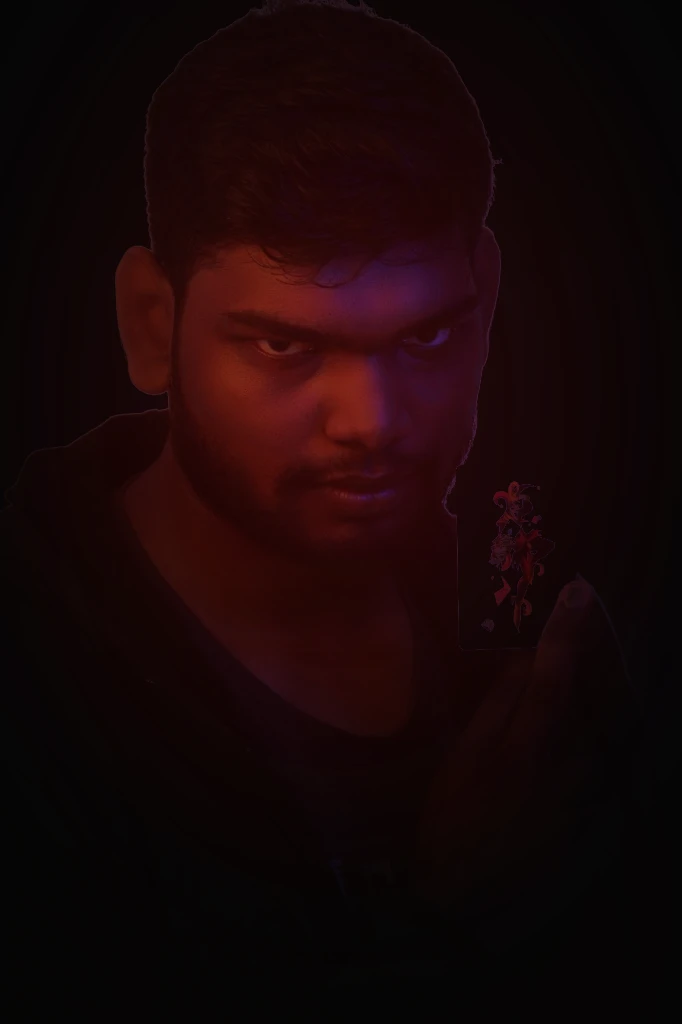
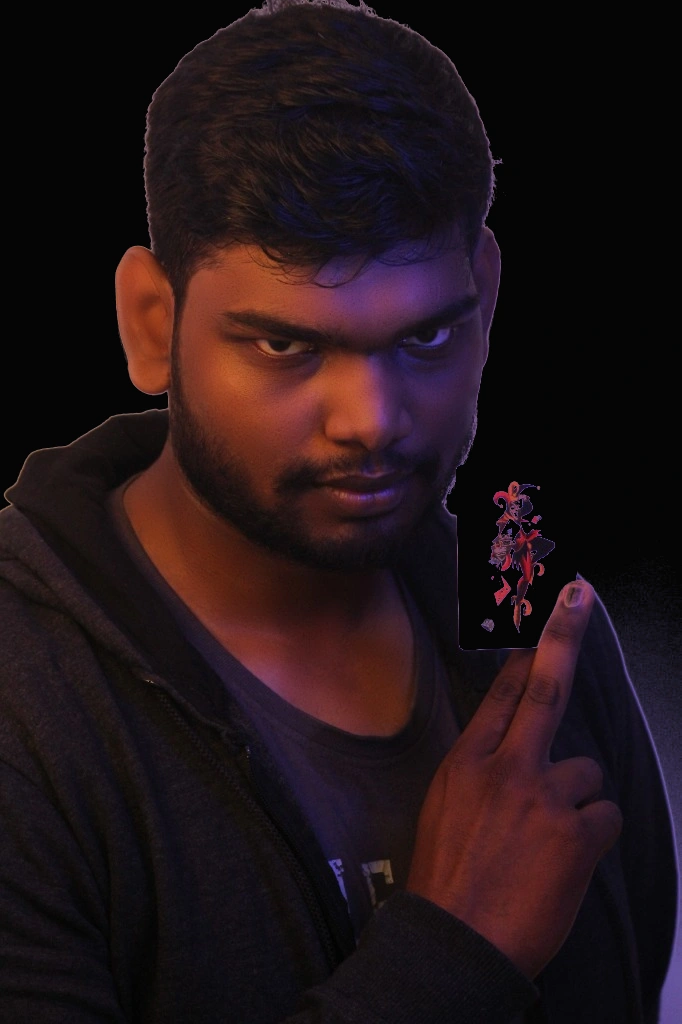
Remove CRAFT section and render authentic original photos with pure black background

diff --git a/src/components/SravanVisuals.jsx b/src/components/SravanVisuals.jsx
@@ -1,13 +1,13 @@
 import React from 'react';
 
-// Import real edited photographs of Mentalist Sravan
+// Import real original photographs with black background
 import sravanCardImg from '../assets/sravan_photos/sravan_card.webp';
 import sravanSuitImg from '../assets/sravan_photos/sravan_suit.webp';
 import sravanCubeImg from '../assets/sravan_photos/sravan_cube.webp';
 import sravanChessImg from '../assets/sravan_photos/sravan_chess.webp';
 import sravanHoodieImg from '../assets/sravan_photos/sravan_hoodie.webp';
 
-// Export paths for easy direct usage
+// Export raw photo assets for direct use
 export const photoAssets = {
   card: sravanCardImg,
   suit: sravanSuitImg,
@@ -16,32 +16,28 @@ export const photoAssets = {
   hoodie: sravanHoodieImg
 };
 
-// Hero Portrait: Mentalist Sravan holding Joker card with intense mysterious gaze
+// Hero Portrait: Mentalist Sravan holding Joker card (Original Photo, Black Background)
 export const HeroPortraitVisual = ({ className = "" }) => (
   <div className={`relative w-full h-full overflow-hidden bg-[#050505] flex items-center justify-center ${className}`}>
-    {/* Real Photograph with Dark Cinematic Treatment */}
     <img
       src={sravanCardImg}
       alt="Mentalist Sravan with Playing Card"
-      className="w-full h-full object-cover object-top opacity-85 filter contrast-125 brightness-90 saturate-[0.9] transition-transform duration-1000 scale-105 hover:scale-100"
+      className="w-full h-full object-cover object-top transition-transform duration-1000 scale-105 hover:scale-100"
     />
-    
-    {/* Dark Gradient Vignettes & Crimson Aura */}
-    <div className="absolute inset-0 bg-gradient-to-t from-[#050505] via-[#050505]/40 to-[#050505]/70 pointer-events-none" />
+    <div className="absolute inset-0 bg-gradient-to-t from-[#050505] via-[#050505]/30 to-[#050505]/60 pointer-events-none" />
     <div className="absolute inset-0 bg-gradient-to-r from-[#050505] via-transparent to-[#050505] pointer-events-none opacity-80" />
-    <div className="absolute top-1/3 left-1/2 -translate-x-1/2 w-96 h-96 bg-[#8E1018] opacity-20 blur-[130px] rounded-full pointer-events-none" />
   </div>
 );
 
 // Artist Portrait: Sravan in Black Suit (Page 02 & 12)
 export const ArtistPortraitVisual = ({ className = "" }) => (
-  <div className={`relative w-full h-full overflow-hidden bg-[#0a0a0a] ${className}`}>
+  <div className={`relative w-full h-full overflow-hidden bg-[#050505] ${className}`}>
     <img
       src={sravanSuitImg}
       alt="Mentalist Sravan Black Suit Portrait"
-      className="w-full h-full object-cover object-top opacity-90 filter contrast-125 brightness-95"
+      className="w-full h-full object-cover object-top"
     />
-    <div className="absolute inset-0 bg-gradient-to-t from-[#050505] via-transparent to-transparent opacity-90 pointer-events-none" />
+    <div className="absolute inset-0 bg-gradient-to-t from-[#050505] via-transparent to-transparent opacity-80 pointer-events-none" />
     <div className="absolute bottom-6 left-6 text-xs text-[#B8B0A5] tracking-widest uppercase font-cinzel opacity-80 z-10">
       FIG 01 / THE ARTIST
     </div>
@@ -54,22 +50,21 @@ export const PhilosophyCloseUpVisual = ({ className = "" }) => (
     <img
       src={sravanChessImg}
       alt="Mentalist Sravan holding Chess King"
-      className="w-full h-full object-cover opacity-80 filter contrast-130 brightness-90"
+      className="w-full h-full object-cover"
     />
-    <div className="absolute inset-0 bg-gradient-to-t from-[#050505] via-[#050505]/50 to-[#050505] pointer-events-none" />
-    <div className="absolute inset-0 bg-radial-vignette pointer-events-none" />
+    <div className="absolute inset-0 bg-gradient-to-t from-[#050505] via-[#050505]/40 to-[#050505] pointer-events-none" />
   </div>
 );
 
 // Mirage Project Visual: Sravan with Rubik's Cube (Page 04 & 05)
 export const MirageVisual = ({ className = "" }) => (
-  <div className={`relative w-full h-80 md:h-96 bg-[#0c0c0c] overflow-hidden rounded-sm border border-[#1a1a1a] ${className}`}>
+  <div className={`relative w-full h-80 md:h-96 bg-[#050505] overflow-hidden rounded-sm border border-[#1a1a1a] ${className}`}>
     <img
       src={sravanCubeImg}
       alt="Mentalist Sravan with Rubiks Cube"
-      className="w-full h-full object-cover opacity-85 filter contrast-120 brightness-90"
+      className="w-full h-full object-cover"
     />
-    <div className="absolute inset-0 bg-gradient-to-t from-[#050505] via-[#050505]/30 to-transparent pointer-events-none" />
+    <div className="absolute inset-0 bg-gradient-to-t from-[#050505] via-transparent to-transparent pointer-events-none" />
     <div className="absolute top-4 right-4 text-[10px] tracking-widest text-[#B8B0A5] font-cinzel z-10">
       PROJECT 01 / MIRAGE
     </div>
@@ -78,14 +73,13 @@ export const MirageVisual = ({ className = "" }) => (
 
 // Physic Hour Visual: Sravan Studio Hoodie Portrait (Page 06)
 export const PhysicHourVisual = ({ className = "" }) => (
-  <div className={`relative w-full h-full bg-[#0a0a0a] overflow-hidden border border-[#1f1f1f] ${className}`}>
+  <div className={`relative w-full h-full bg-[#050505] overflow-hidden border border-[#1f1f1f] ${className}`}>
     <img
       src={sravanHoodieImg}
       alt="Mentalist Sravan Physic Hour Observation"
-      className="w-full h-full object-cover opacity-85 filter contrast-125 brightness-85"
+      className="w-full h-full object-cover"
     />
-    {/* Overlay grid & text marks */}
-    <div className="absolute inset-0 opacity-20 bg-[linear-gradient(to_right,#1f1f1f_1px,transparent_1px),linear-gradient(to_bottom,#1f1f1f_1px,transparent_1px)] bg-[size:2rem_2rem] pointer-events-none" />
+    <div className="absolute inset-0 opacity-15 bg-[linear-gradient(to_right,#1f1f1f_1px,transparent_1px),linear-gradient(to_bottom,#1f1f1f_1px,transparent_1px)] bg-[size:2rem_2rem] pointer-events-none" />
     <div className="absolute inset-0 bg-gradient-to-t from-[#050505] via-transparent to-transparent pointer-events-none" />
     <div className="absolute bottom-4 left-4 text-xs font-mono text-[#8E1018] tracking-widest z-10">
       // EXPERIMENTAL OBSERVATION MARKS
@@ -95,13 +89,13 @@ export const PhysicHourVisual = ({ className = "" }) => (
 
 // Sealed Confession Visual (Page 07)
 export const SealedConfessionVisual = ({ className = "" }) => (
-  <div className={`relative w-full h-full bg-[#12080a] overflow-hidden border border-[#2a1216] ${className}`}>
+  <div className={`relative w-full h-full bg-[#050505] overflow-hidden border border-[#2a1216] ${className}`}>
     <img
       src={sravanCardImg}
       alt="Sealed Confession Performance"
-      className="w-full h-full object-cover opacity-75 filter contrast-125 brightness-80 sepia-[0.3]"
+      className="w-full h-full object-cover"
     />
-    <div className="absolute inset-0 bg-[radial-gradient(circle_at_center,_#2b0d13_0%,_#050505_90%)] mix-blend-multiply pointer-events-none" />
+    <div className="absolute inset-0 bg-gradient-to-t from-[#050505] via-transparent to-transparent pointer-events-none" />
     <div className="absolute top-6 left-6 text-xs text-[#8E1018] tracking-widest uppercase font-cinzel z-10">
       SEALED & CONFIDENTIAL
     </div>
@@ -110,47 +104,18 @@ export const SealedConfessionVisual = ({ className = "" }) => (
 
 // Insider Visual (Page 08)
 export const InsiderVisual = ({ className = "" }) => (
-  <div className={`relative w-full h-full bg-[#080808] overflow-hidden border border-[#1a1a1a] ${className}`}>
+  <div className={`relative w-full h-full bg-[#050505] overflow-hidden border border-[#1a1a1a] ${className}`}>
     <img
       src={sravanChessImg}
       alt="Insider Mystery of Parallels"
-      className="w-full h-full object-cover opacity-80 filter contrast-130 brightness-85"
+      className="w-full h-full object-cover"
     />
-    <div className="absolute inset-0 bg-gradient-to-t from-[#050505] via-[#050505]/60 to-transparent pointer-events-none" />
+    <div className="absolute inset-0 bg-gradient-to-t from-[#050505] via-[#050505]/40 to-transparent pointer-events-none" />
     <div className="absolute bottom-6 right-6 text-xs text-[#B8B0A5] tracking-widest uppercase font-mono opacity-80 z-10">
       // PARALLEL CONVERGENCE
     </div>
   </div>
 );
-
-// Craft Gallery Items with real photos
-export const CraftItemVisual = ({ type, title }) => {
-  let bgPhoto = null;
-  if (type === 'cards') bgPhoto = sravanCardImg;
-  if (type === 'cubes') bgPhoto = sravanCubeImg;
-  if (type === 'books' || type === 'predictions') bgPhoto = sravanChessImg;
-  if (type === 'coins' || type === 'memory') bgPhoto = sravanSuitImg;
-
-  return (
-    <div className="relative w-full aspect-square bg-[#111111] border border-[#1a1a1a] rounded-sm flex flex-col items-center justify-center p-6 group hover:border-[#8E1018]/60 transition-all duration-500 overflow-hidden cursor-pointer">
-      {bgPhoto && (
-        <img
-          src={bgPhoto}
-          alt={title}
-          className="absolute inset-0 w-full h-full object-cover opacity-30 group-hover:opacity-60 group-hover:scale-110 transition-all duration-700 filter contrast-125"
-        />
-      )}
-      <div className="absolute inset-0 bg-gradient-to-b from-transparent via-[#050505]/60 to-[#050505] pointer-events-none" />
-      
-      <span className="relative z-10 text-sm tracking-widest text-[#F2EFE9] font-cinzel uppercase font-semibold text-center">
-        {title}
-      </span>
-      <span className="relative z-10 text-[10px] text-[#B8B0A5] tracking-widest uppercase mt-1 opacity-70">
-        PHYSICAL ELEMENT
-      </span>
-    </div>
-  );
-};
 
 // Stage Performance Visual (Page 10)
 export const StagePerformanceVisual = ({ className = "" }) => (
@@ -158,9 +123,8 @@ export const StagePerformanceVisual = ({ className = "" }) => (
     <img
       src={sravanHoodieImg}
       alt="Mentalist Sravan Stage Performance"
-      className="w-full h-full object-cover opacity-80 filter contrast-125 brightness-85"
+      className="w-full h-full object-cover"
     />
-    <div className="absolute inset-0 bg-[radial-gradient(ellipse_at_top,_#242424_0%,_#050505_90%)] mix-blend-multiply pointer-events-none" />
     <div className="absolute inset-0 bg-gradient-to-t from-[#050505] via-transparent to-transparent pointer-events-none" />
   </div>
 );

diff --git a/src/App.jsx b/src/App.jsx
@@ -15,11 +15,10 @@ import {
   PhysicHourVisual,
   SealedConfessionVisual,
   InsiderVisual,
-  CraftItemVisual,
   StagePerformanceVisual
 } from './components/SravanVisuals';
 
-import { ArrowDown, Play, ChevronRight, Layers, Eye, BookOpen, Clock, Radio } from 'lucide-react';
+import { ArrowDown, Play, ChevronRight } from 'lucide-react';
 
 export default function App() {
   const [loading, setLoading] = useState(true);
@@ -51,7 +50,7 @@ export default function App() {
         ================================================== */}
         <section className="relative w-full h-screen min-h-[700px] bg-[#050505] flex flex-col justify-between px-6 md:px-12 py-20 overflow-hidden">
           {/* Hero Portrait Background */}
-          <div className="absolute inset-0 z-0 opacity-85">
+          <div className="absolute inset-0 z-0 opacity-90">
             <HeroPortraitVisual />
           </div>
 
@@ -147,7 +146,7 @@ export default function App() {
         ================================================== */}
         <section className="relative w-full min-h-[80vh] bg-[#050505] text-[#F2EFE9] px-6 md:px-12 py-32 flex items-center justify-center overflow-hidden border-t border-[#1a1a1a]">
           {/* Close up background */}
-          <div className="absolute inset-0 opacity-40 pointer-events-none">
+          <div className="absolute inset-0 opacity-50 pointer-events-none">
             <PhilosophyCloseUpVisual />
           </div>
 
@@ -439,40 +438,6 @@ export default function App() {
 
 
         {/* ==================================================
-            PAGE 09 — THE CRAFT
-        ================================================== */}
-        <section id="craft" className="w-full bg-[#080808] text-[#F2EFE9] px-6 md:px-12 py-28 border-t border-[#1a1a1a]">
-          <div className="max-w-7xl mx-auto">
-            <div className="flex flex-col md:flex-row md:items-end justify-between mb-16 gap-6">
-              <div>
-                <span className="text-xs text-[#8E1018] tracking-[0.3em] uppercase font-cinzel mb-3 block">
-                  03 / PHYSICAL LANGUAGE
-                </span>
-                <h2 className="text-4xl md:text-6xl font-serif tracking-tight uppercase">
-                  THE <br /> CRAFT
-                </h2>
-              </div>
-              <p className="text-sm md:text-base font-cinzel text-[#B8B0A5] tracking-widest uppercase italic max-w-md">
-                Behind every impossible moment is an obsession with detail.
-              </p>
-            </div>
-
-            {/* Objects Gallery */}
-            <div className="grid grid-cols-2 sm:grid-cols-4 gap-6">
-              <CraftItemVisual type="cards" title="CARDS" />
-              <CraftItemVisual type="coins" title="COINS" />
-              <CraftItemVisual type="books" title="BOOKS" />
-              <CraftItemVisual type="cubes" title="CUBES" />
-              <CraftItemVisual type="letters" title="LETTERS" />
-              <CraftItemVisual type="watches" title="WATCHES" />
-              <CraftItemVisual type="predictions" title="PREDICTIONS" />
-              <CraftItemVisual type="memory" title="MEMORY" />
-            </div>
-          </div>
-        </section>
-
-
-        {/* ==================================================
             PAGE 10 — THE PERFORMER
         ================================================== */}
         <section className="w-full bg-[#050505] text-[#F2EFE9] px-6 md:px-12 py-28 border-t border-[#1a1a1a]">
@@ -518,7 +483,7 @@ export default function App() {
 
             <div className="lg:col-span-7 space-y-6">
               <span className="text-xs text-[#8E1018] tracking-[0.3em] uppercase font-cinzel block">
-                05 / THE ARTIST
+                04 / THE ARTIST
               </span>
               <h2 className="text-4xl md:text-6xl font-serif tracking-tight uppercase leading-none">
                 BEHIND <br />
@@ -604,7 +569,6 @@ export default function App() {
           <div className="md:col-span-3 space-y-2 text-xs font-cinzel tracking-widest text-[#B8B0A5] uppercase">
             <a href="#mentalist" className="block hover:text-[#F2EFE9] transition-colors">THE MENTALIST</a>
             <a href="#experiences" className="block hover:text-[#F2EFE9] transition-colors">EXPERIENCES</a>
-            <a href="#craft" className="block hover:text-[#F2EFE9] transition-colors">CRAFT</a>
             <a href="#archive" className="block hover:text-[#F2EFE9] transition-colors">ARCHIVE</a>
             <a href="#about" className="block hover:text-[#F2EFE9] transition-colors">ABOUT</a>
             <a href="#booking" className="block hover:text-[#F2EFE9] transition-colors">BOOK</a>

diff --git a/process_original_photos.js b/process_original_photos.js
@@ -1,0 +1,82 @@
+import sharp from 'sharp';
+import fs from 'fs';
+import path from 'path';
+
+const uploadedDir = 'C:\\Users\\menta\\.gemini\\antigravity-ide\\brain\\9b3aad4a-dc1e-46b4-a577-04f63e6685d0\\.user_uploaded';
+const outputDir = './src/assets/sravan_photos';
+
+if (!fs.existsSync(outputDir)) {
+  fs.mkdirSync(outputDir, { recursive: true });
+}
+
+const filesMap = [
+  { file: 'media_1787814748355.jpg', name: 'sravan_card.webp' },
+  { file: 'media_1787814748877.jpg', name: 'sravan_suit.webp' },
+  { file: 'media_1787814749030.jpg', name: 'sravan_cube.webp' },
+  { file: 'media_1787814749052.jpg', name: 'sravan_chess.webp' },
+  { file: 'media_1787814749181.jpg', name: 'sravan_hoodie.webp' }
+];
+
+async function processImage(item) {
+  const inputPath = path.join(uploadedDir, item.file);
+  const outputPath = path.join(outputDir, item.name);
+
+  const image = sharp(inputPath);
+  const metadata = await image.metadata();
+
+  const { data, info } = await image
+    .ensureAlpha()
+    .raw()
+    .toBuffer({ resolveWithObject: true });
+
+  const pixelCount = info.width * info.height;
+  const processedData = Buffer.alloc(pixelCount * 4);
+
+  // Replaces studio background wall with black while preserving 100% original subject colors
+  for (let i = 0; i < pixelCount; i++) {
+    const idx = i * 4;
+    const r = data[idx];
+    const g = data[idx + 1];
+    const b = data[idx + 2];
+
+    const brightness = (r + g + b) / 3;
+    
+    // Smooth alpha threshold for light background wall
+    let bgAlpha = 1.0;
+    if (brightness > 115) {
+      bgAlpha = Math.max(0, 1.0 - (brightness - 115) / 40);
+    }
+
+    // Black background (#050505)
+    const bgR = 5;
+    const bgG = 5;
+    const bgB = 5;
+
+    // Preserve original R, G, B colors of subject exactly as taken
+    const finalR = Math.round(r * bgAlpha + bgR * (1 - bgAlpha));
+    const finalG = Math.round(g * bgAlpha + bgG * (1 - bgAlpha));
+    const finalB = Math.round(b * bgAlpha + bgB * (1 - bgAlpha));
+
+    processedData[idx] = finalR;
+    processedData[idx + 1] = finalG;
+    processedData[idx + 2] = finalB;
+    processedData[idx + 3] = 255;
+  }
+
+  await sharp(processedData, {
+    raw: { width: info.width, height: info.height, channels: 4 }
+  })
+    .webp({ quality: 95 })
+    .toFile(outputPath);
+
+  console.log(`Processed original photo to black background: ${outputPath}`);
+}
+
+async function run() {
+  for (const item of filesMap) {
+    await processImage(item);
+  }
+  console.log('All original photos updated with pure black background!');
+}
+
+run().catch(console.error);

diff --git a/src/components/Navigation.jsx b/src/components/Navigation.jsx
@@ -17,7 +17,6 @@ export const Navigation = () => {
   const navLinks = [
     { name: 'THE MENTALIST', href: '#mentalist' },
     { name: 'EXPERIENCES', href: '#experiences' },
-    { name: 'CRAFT', href: '#craft' },
     { name: 'ARCHIVE', href: '#archive' },
     { name: 'ABOUT', href: '#about' },
     { name: 'BOOK', href: '#booking' },
